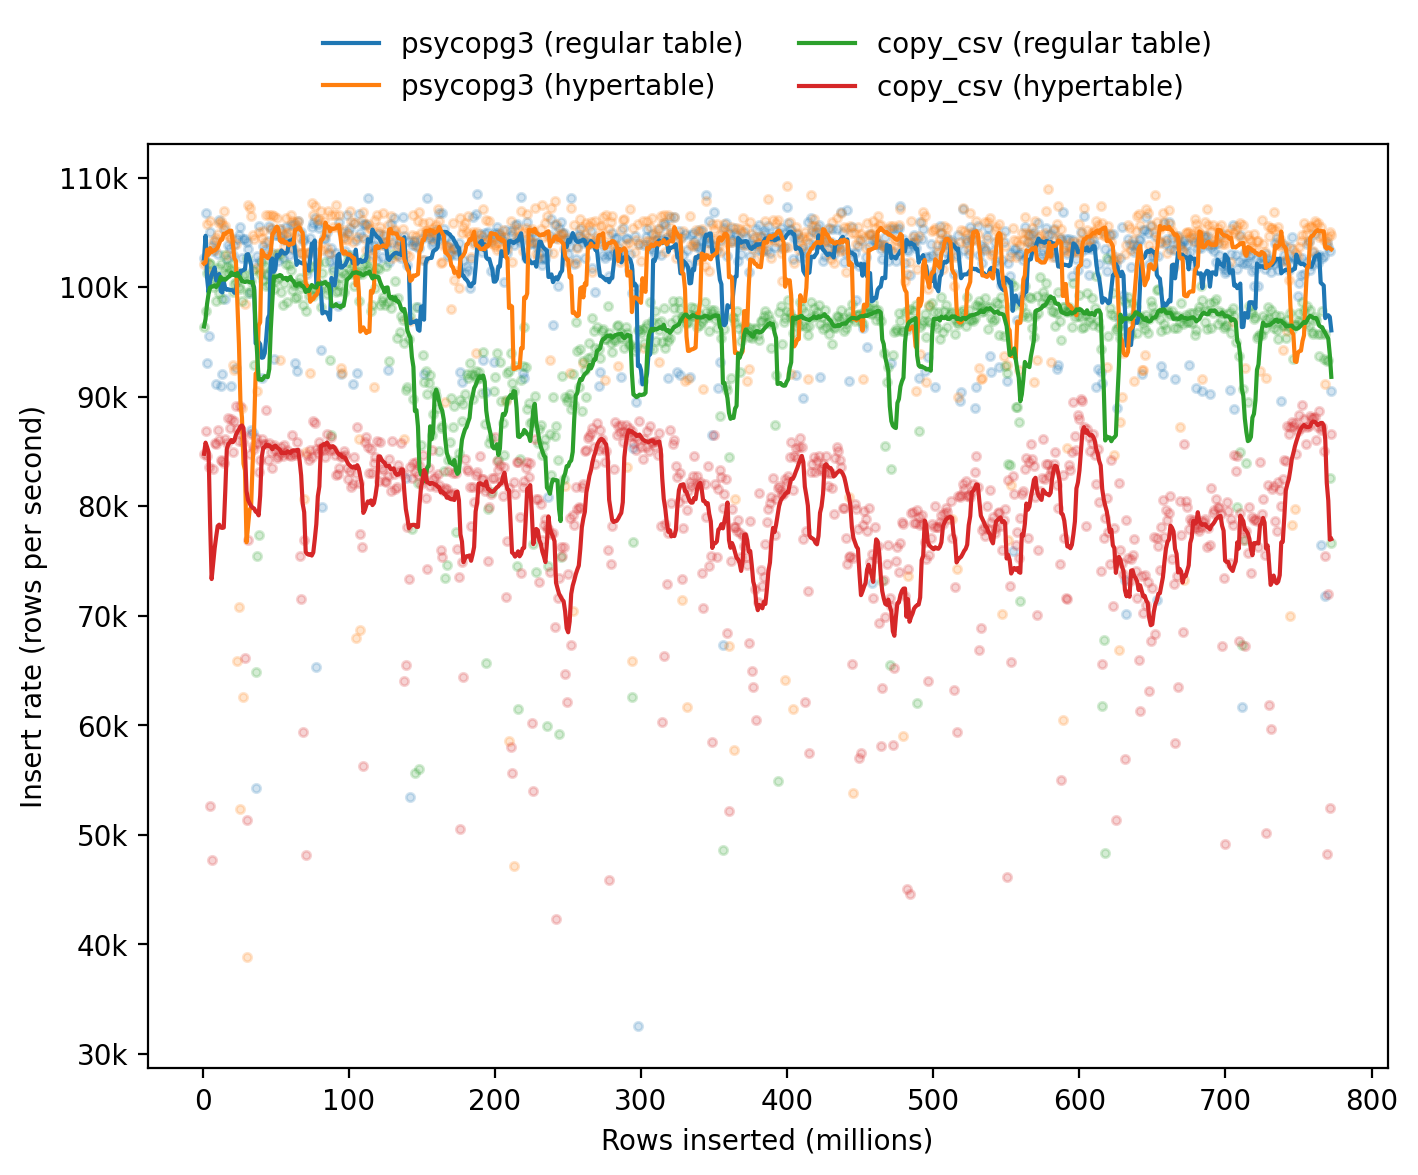
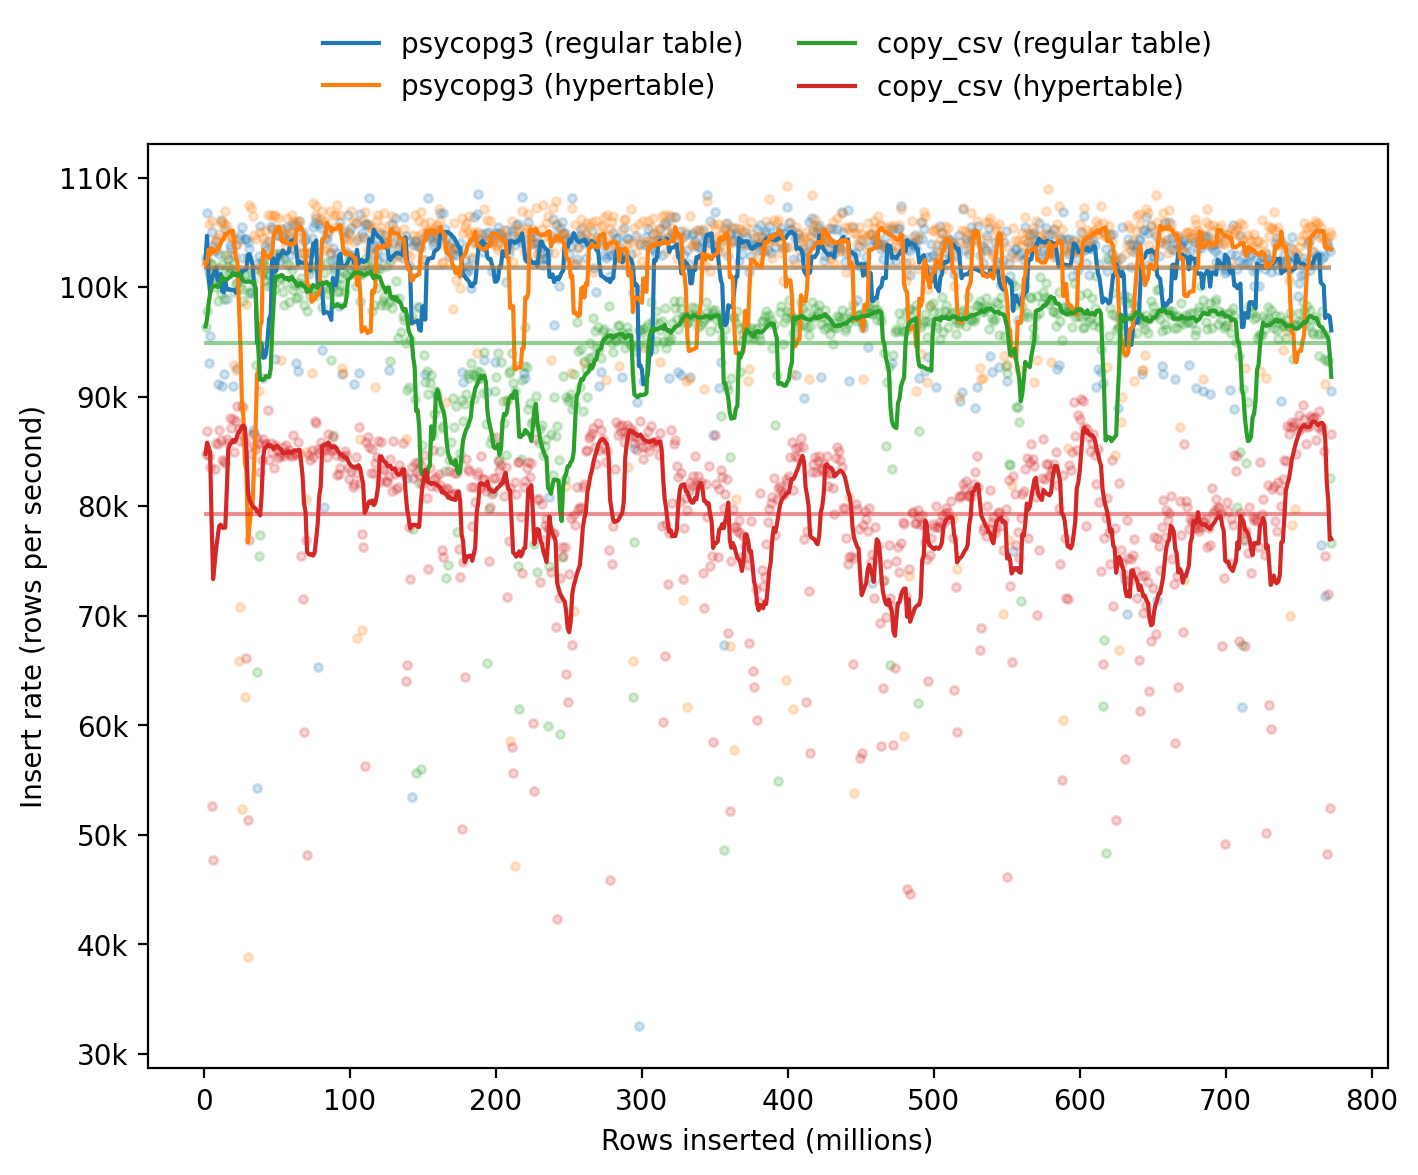
Better copy at scale plot

diff --git a/plot_copy_at_scale_benchmark.py b/plot_copy_at_scale_benchmark.py
@@ -31,26 +31,27 @@ def num_to_kM(val, pos):
 def main(args):
     df = pd.read_csv(args.benchmarks_file)
 
-    def plot(ax, method, rate, table_type, label):
+    def plot(ax, method, rate, table_type, label, color):
         dfq = df.query(f"method == '{method}' and table_type == '{table_type}'").sort_values(by="hour")
         rows_inserted = dfq["num_rows"].cumsum() / 1e6
         insert_rate = dfq[rate]
         insert_rate_smoothed = insert_rate.rolling(window=10, min_periods=1).mean()
 
-        ax.scatter(rows_inserted, insert_rate, marker=".", alpha=0.2)
-        ax.plot(rows_inserted, insert_rate_smoothed, label=label)
+        ax.scatter(rows_inserted, insert_rate, marker=".", color=color, alpha=0.2)
+        ax.hlines(dfq[rate].mean(), 0, rows_inserted.max(), color=color, alpha=0.5)
+        ax.plot(rows_inserted, insert_rate_smoothed, color=color, label=label)
 
     fig, ax = plt.subplots(figsize=(8, 6))
 
-    plot(ax, "psycopg3", "rate_full", "regular", label="psycopg3 (regular table)")
-    plot(ax, "psycopg3", "rate_full", "hyper", label="psycopg3 (hypertable)")
-    plot(ax, "copy_csv", "rate_full", "regular", label="copy_csv (regular table)")
-    plot(ax, "copy_csv", "rate_full", "hyper", label="copy_csv (hypertable)")
+    plot(ax, "psycopg3", "rate_full", "regular", label="psycopg3 (regular table)", color="tab:blue")
+    plot(ax, "psycopg3", "rate_full", "hyper", label="psycopg3 (hypertable)", color="tab:orange")
+    plot(ax, "copy_csv", "rate_full", "regular", label="copy_csv (regular table)", color="tab:green")
+    plot(ax, "copy_csv", "rate_full", "hyper", label="copy_csv (hypertable)", color="tab:red")
 
     ax.yaxis.set_major_formatter(mpl.ticker.FuncFormatter(num_to_kM))
 
     ax.set_xlabel("Rows inserted (millions)")
-    ax.set_ylabel("Insert rate (rows per second)")
+    ax.set_ylabel("Overall insert rate (rows per second)")
     ax.legend(frameon=False, ncol=2, loc="upper center", bbox_to_anchor=(0.5, 1.15))
     
     output_filename = Path(args.benchmarks_file).with_suffix(".png")
